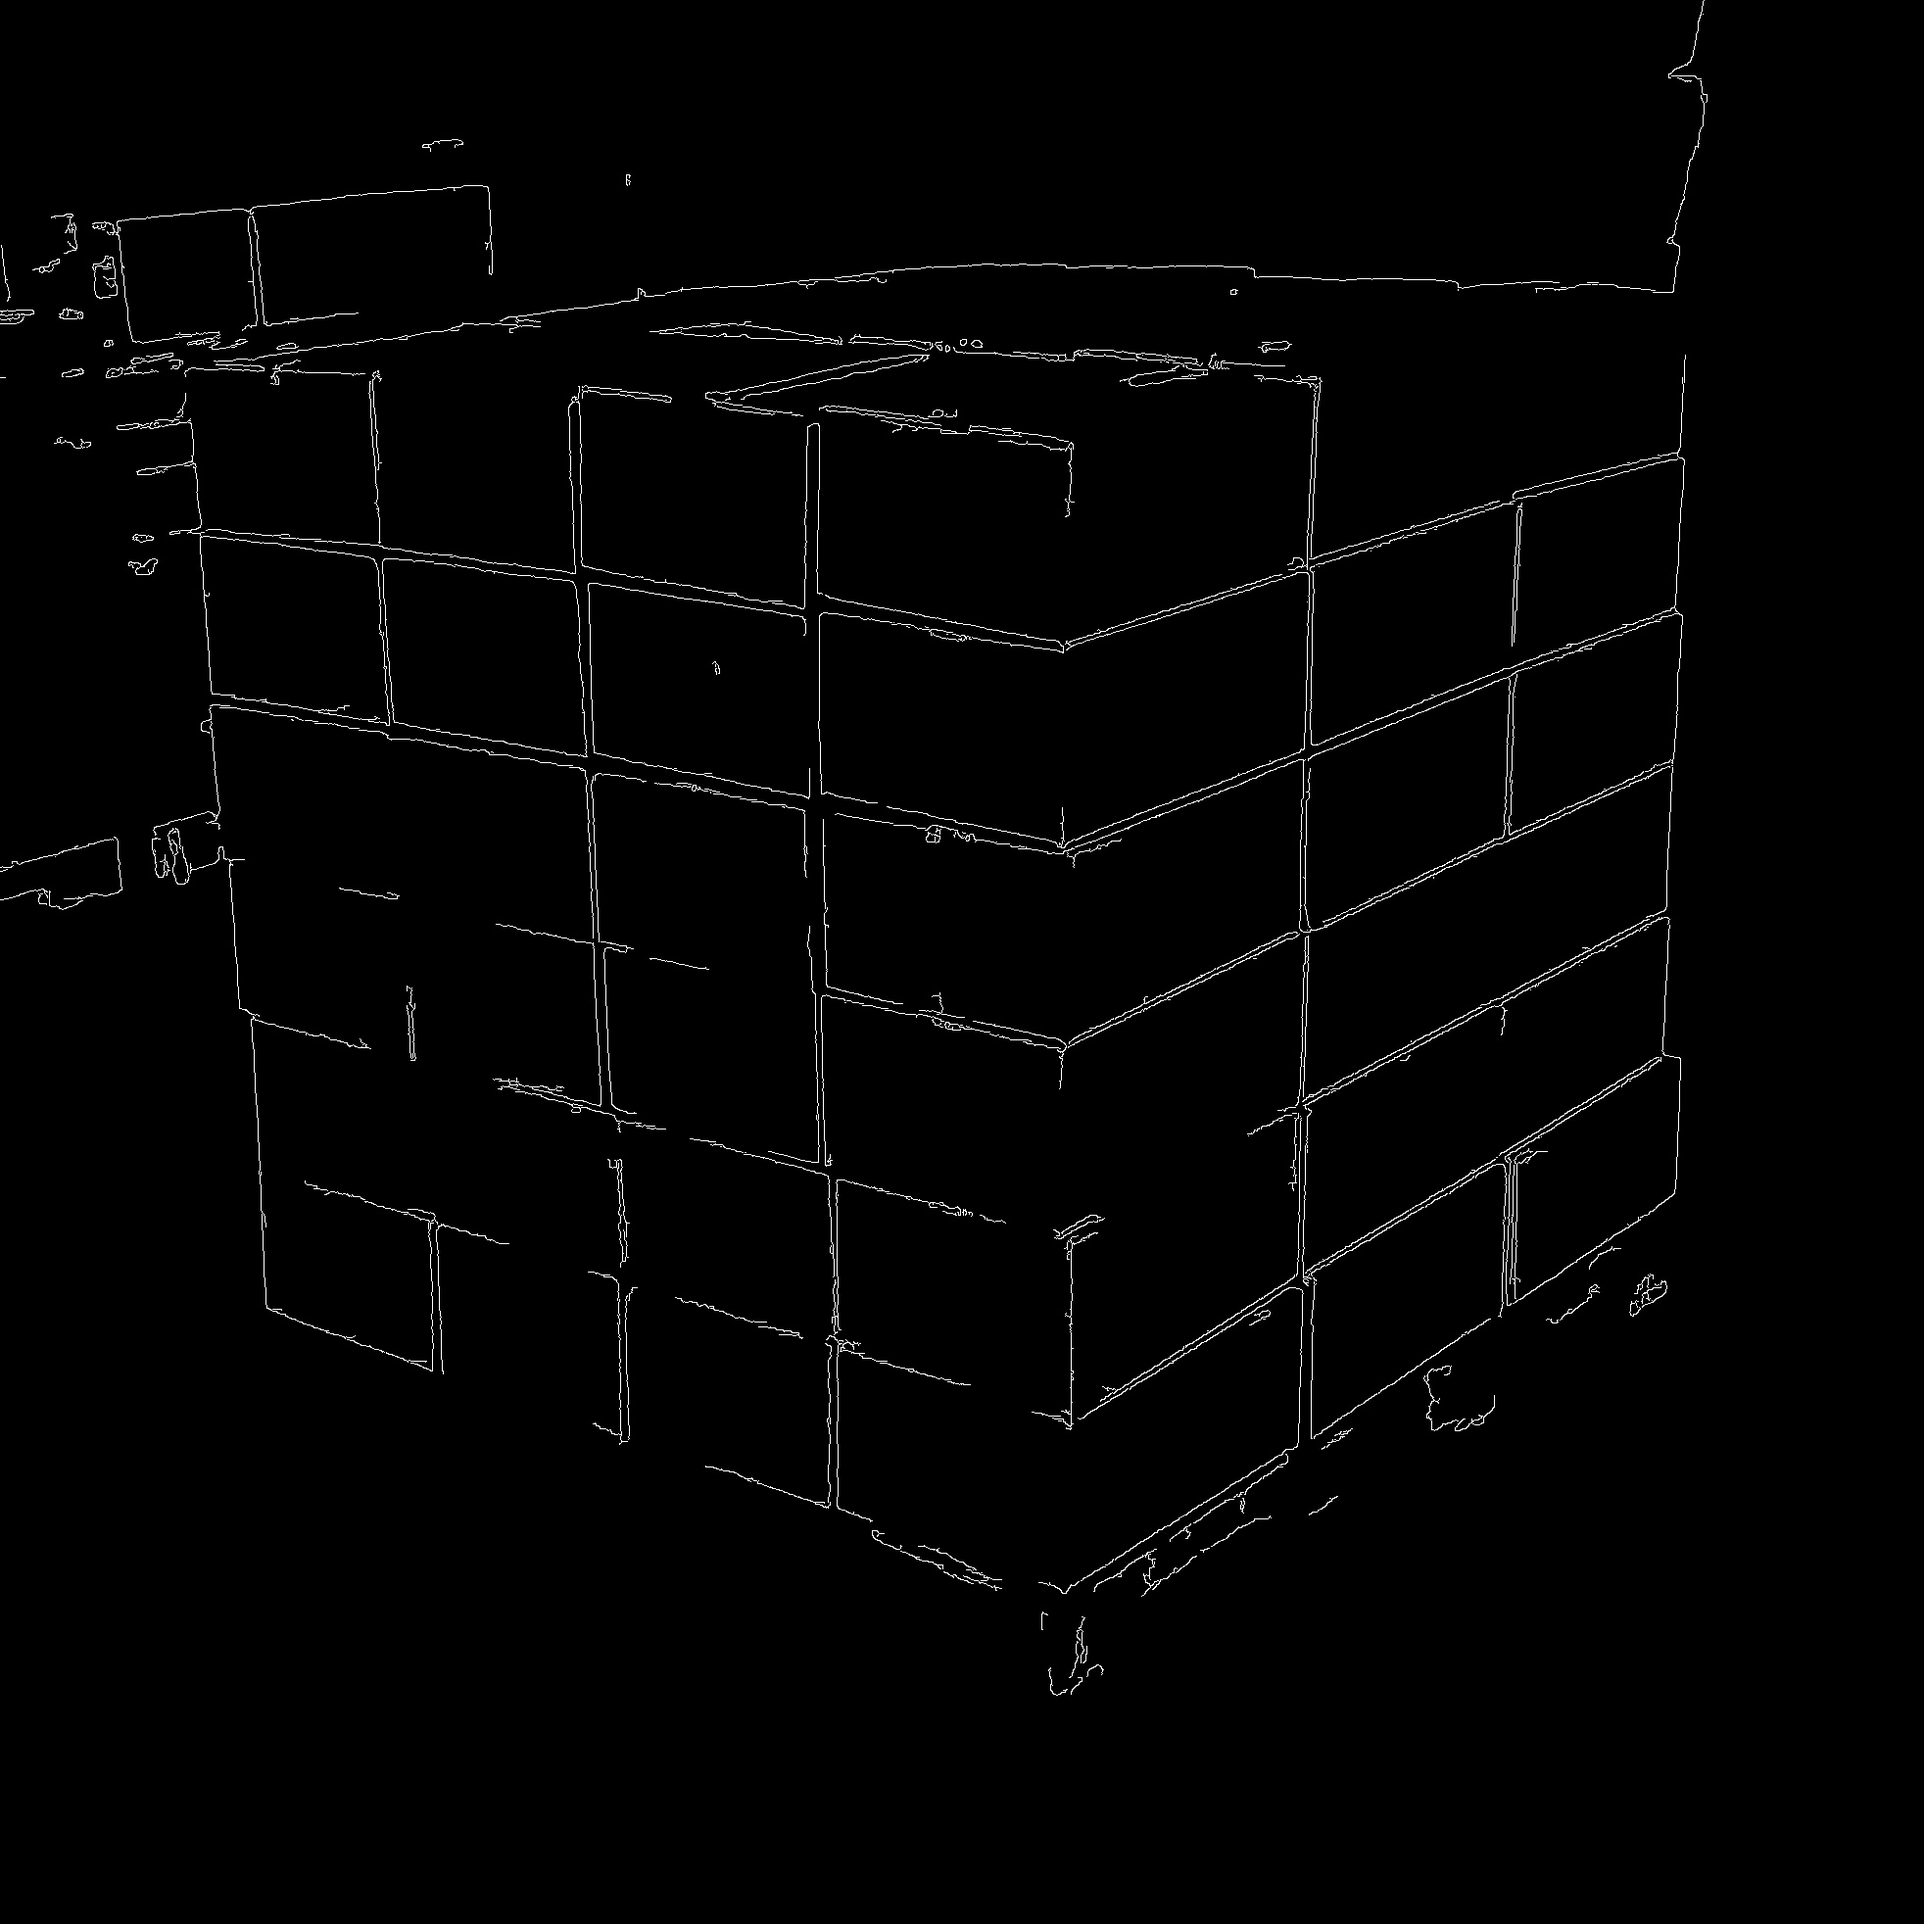
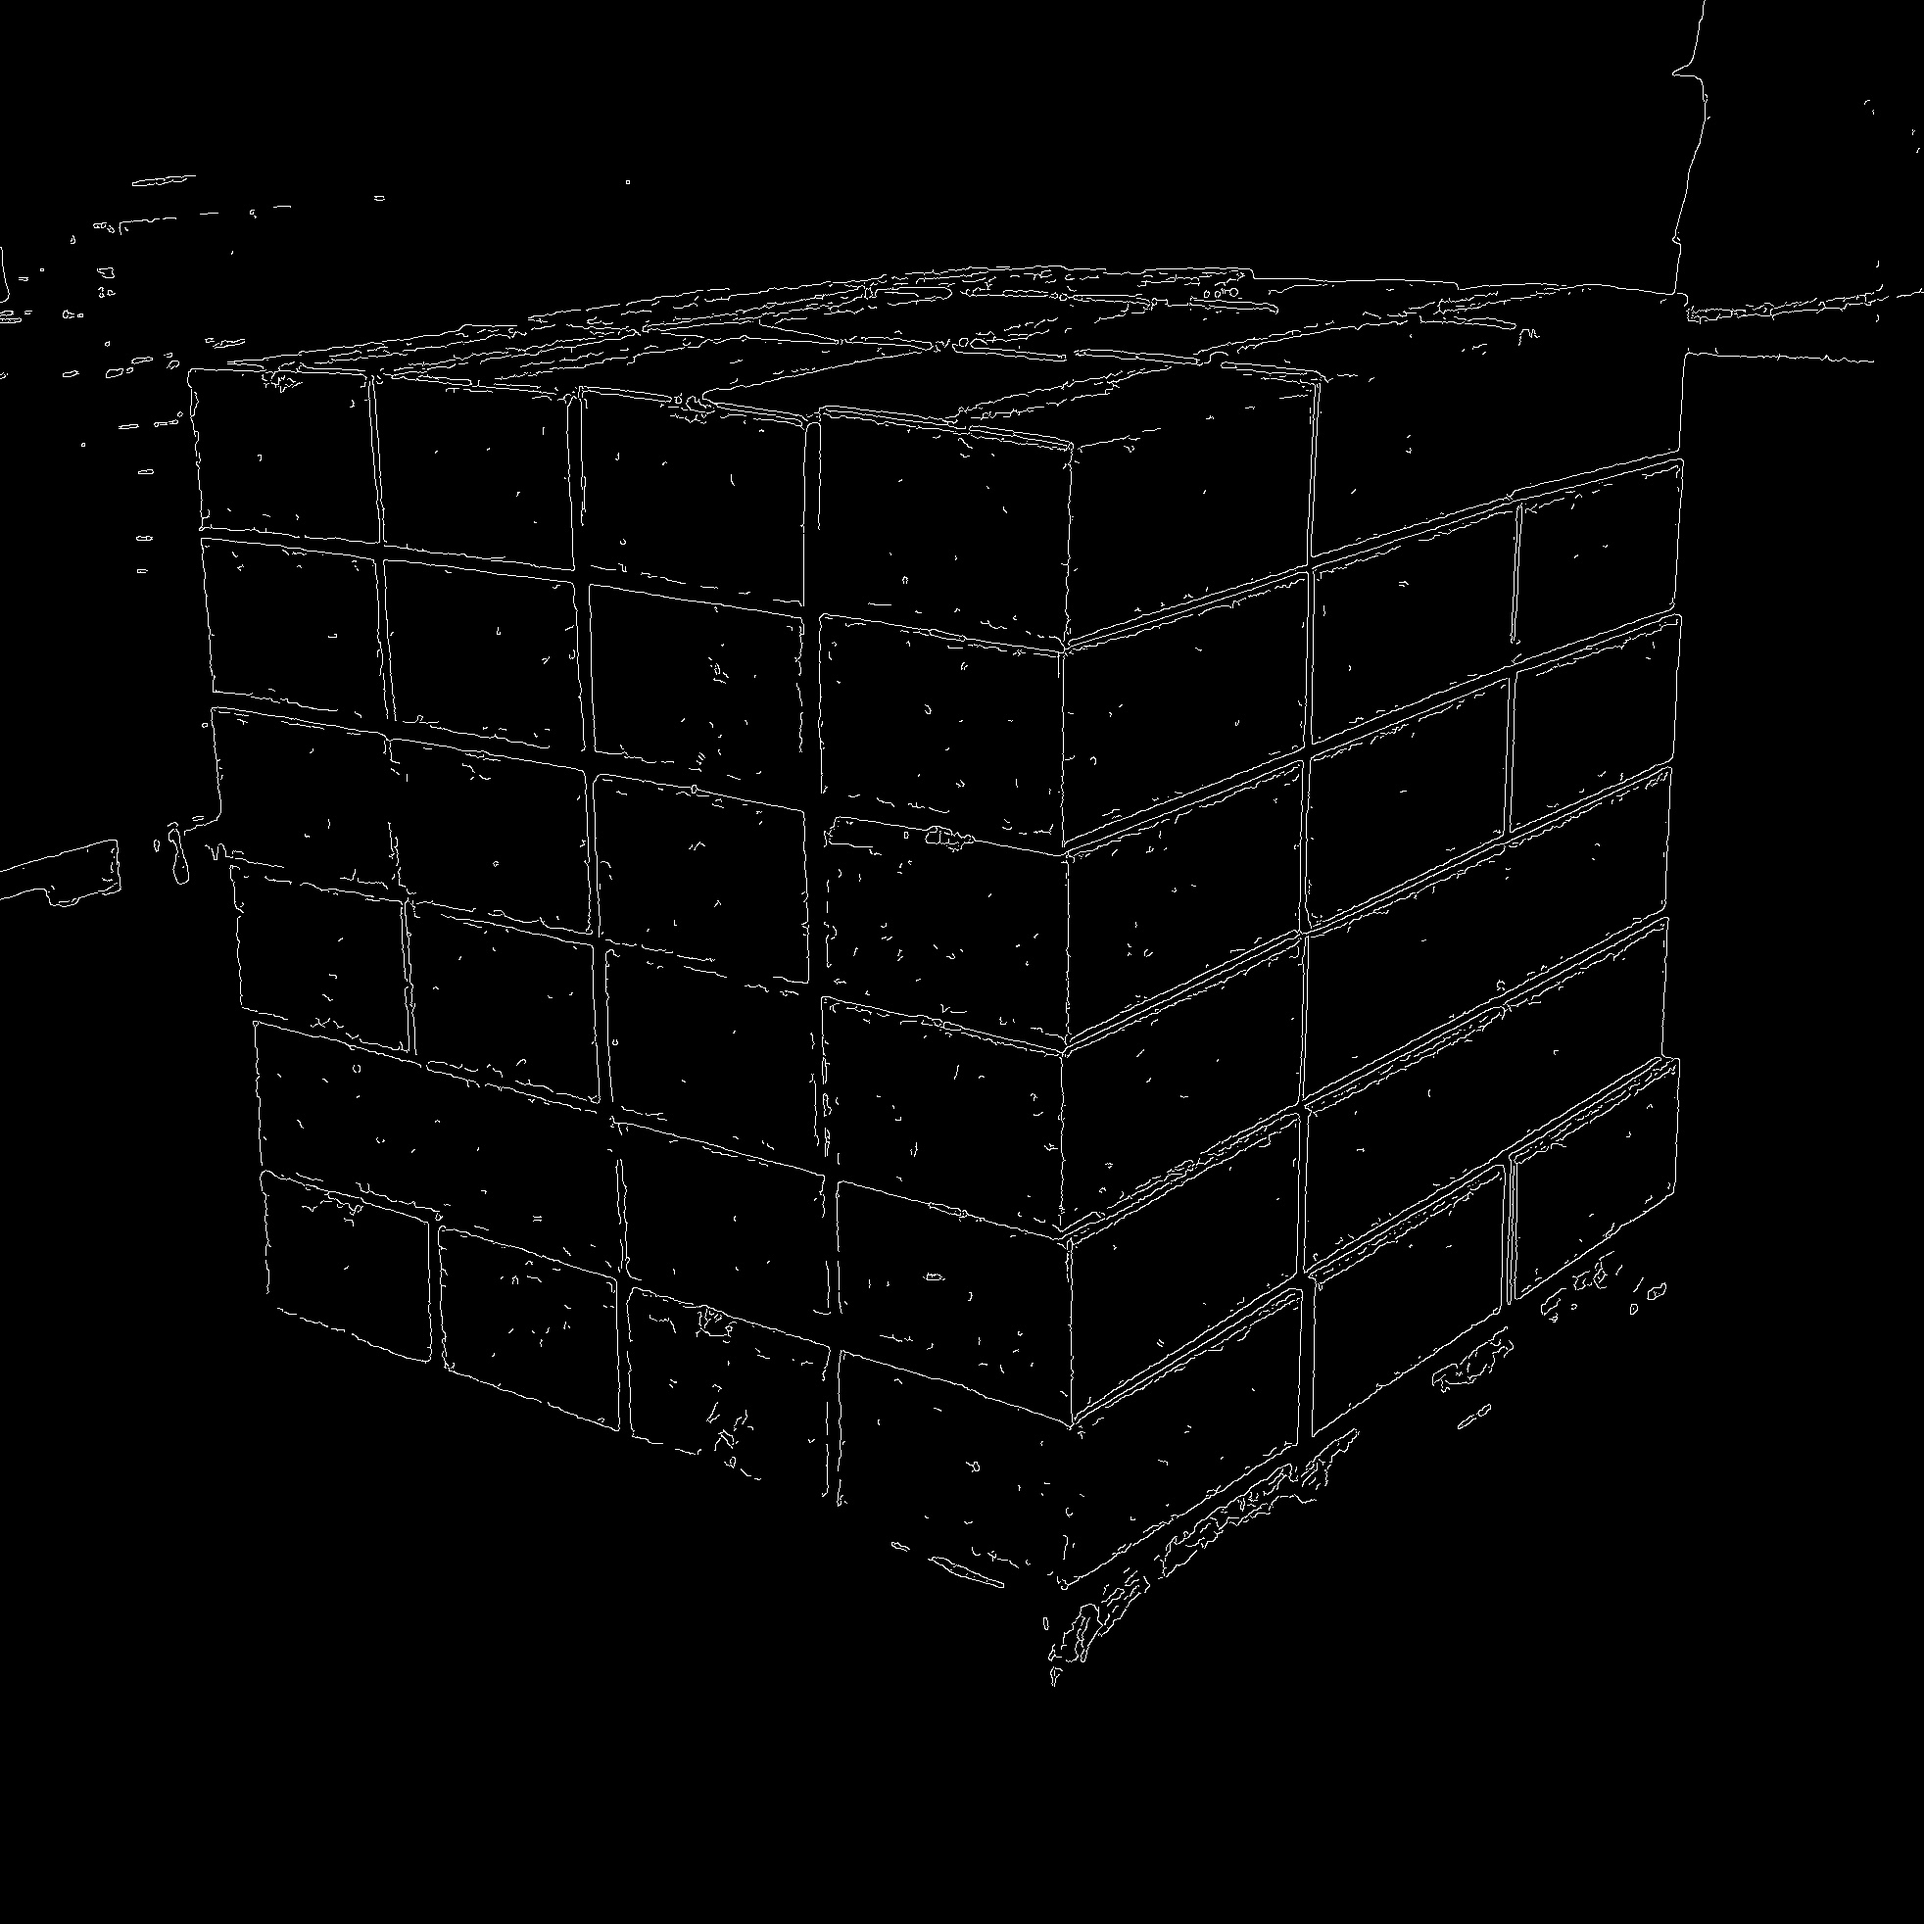
some improvements on Hough line detection

diff --git a/CV-Boxes/test3.cpp b/CV-Boxes/test3.cpp
@@ -31,20 +31,35 @@ int main(int argc, const char* argv[]) {
 	cvtColor(grey, grey, COLOR_BGR2GRAY);
 
 	//maybe up the contrast first?
-	grey.convertTo(grey, CV_8U, 1, -100); //increase saturation
-	display("saturated", grey);
-	grey.convertTo(grey, -1, 2, 0); //increase contrast
-	display("contrast", grey);
+	grey.convertTo(grey, CV_8U, 1, -75); //decrease saturation
+	//display("saturated", grey);
+	grey.convertTo(grey, CV_8U, 2, 0); //increase contrast
+	//display("contrast", grey);
+
+	//second pass
+	grey.convertTo(grey, CV_8U, 1, -100); //decrease saturation
+	//display("saturated2", grey);
+	grey.convertTo(grey, CV_8U, 2, 0); //increase contrast
+	//display("contrast2", grey);
+
+	//try blurring?
+	//blurring helps, since adjusting the saturation and contrast magnifies noise
+	double sigma = 1.0;
+	GaussianBlur(grey, grey, Size(3,3), sigma, sigma, 4);
+	//display("blur", grey);
 
 	//Canny(grey, grey, 25, 100, 3);
-	Canny(grey, grey, 25, 200, 3);
+	Canny(grey, grey, 75, 110, 3);
 	display("canny2", grey);
 
 	Mat color_out;
 	cvtColor(grey, color_out, COLOR_GRAY2BGR);
 
 	vector<Vec2f> lines;
-	HoughLines(grey, lines, 1, CV_PI / 180, 150, 0, 0); //in, lines out, rho, theta, threshold, srn, stn, min theta, max theta
+	double rho = 1.0; //distance resolution of the accumulator, in pixels
+	double theta = 3 * CV_PI / 180; //angle resolution of the accumulator, in radians ( n * pi/180 where n is degrees)
+	int threshold = 150; //accumulator threshold param - only lines with at least this many votes get returned
+	HoughLines(grey, lines, rho, theta, threshold, 0, 0); //in, lines out, rho, theta, threshold, srn, stn, min theta, max theta
 
 	//from https://docs.opencv.org/master/d5/df9/samples_2cpp_2tutorial_code_2ImgTrans_2houghlines_8cpp-example.html#a8
 	// Draw the lines
